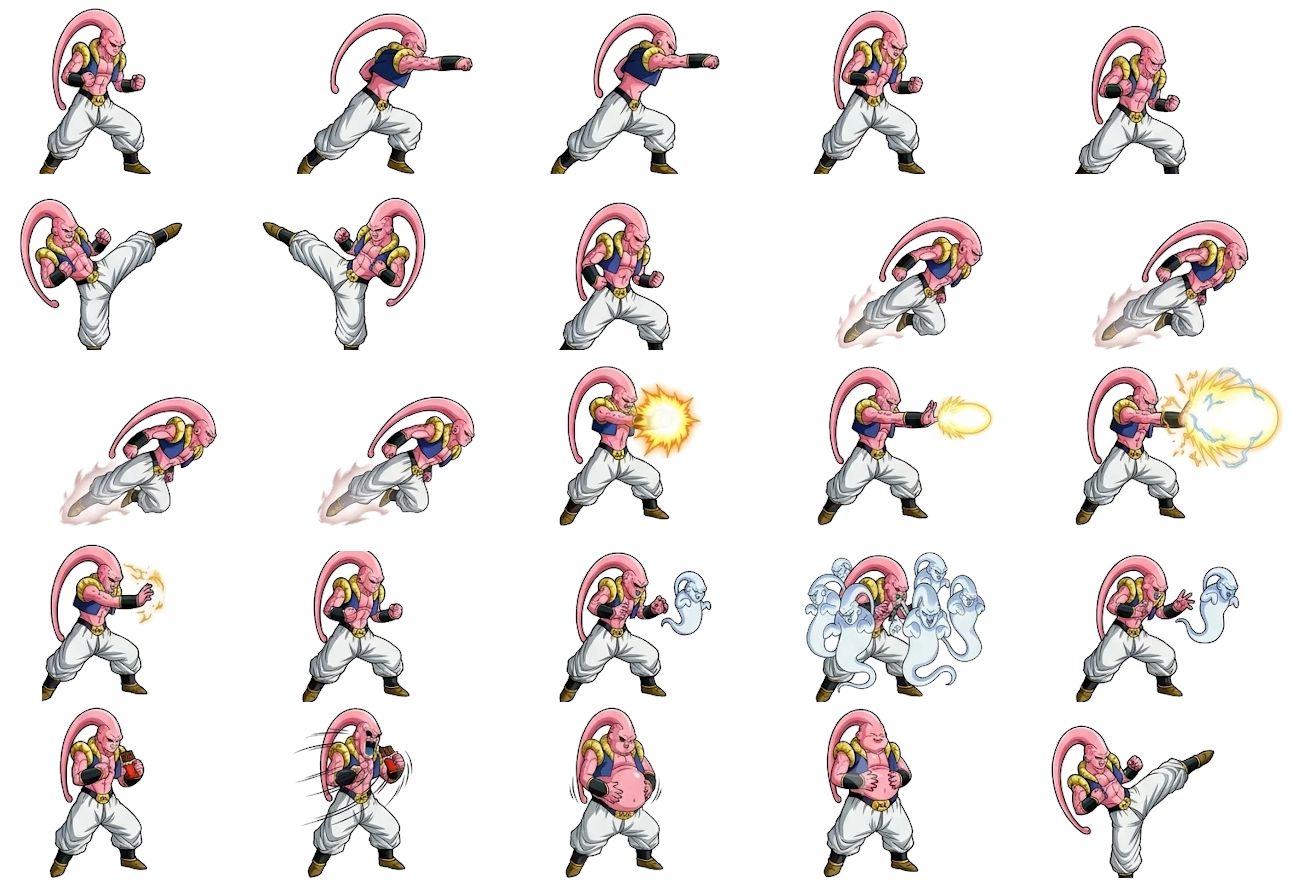
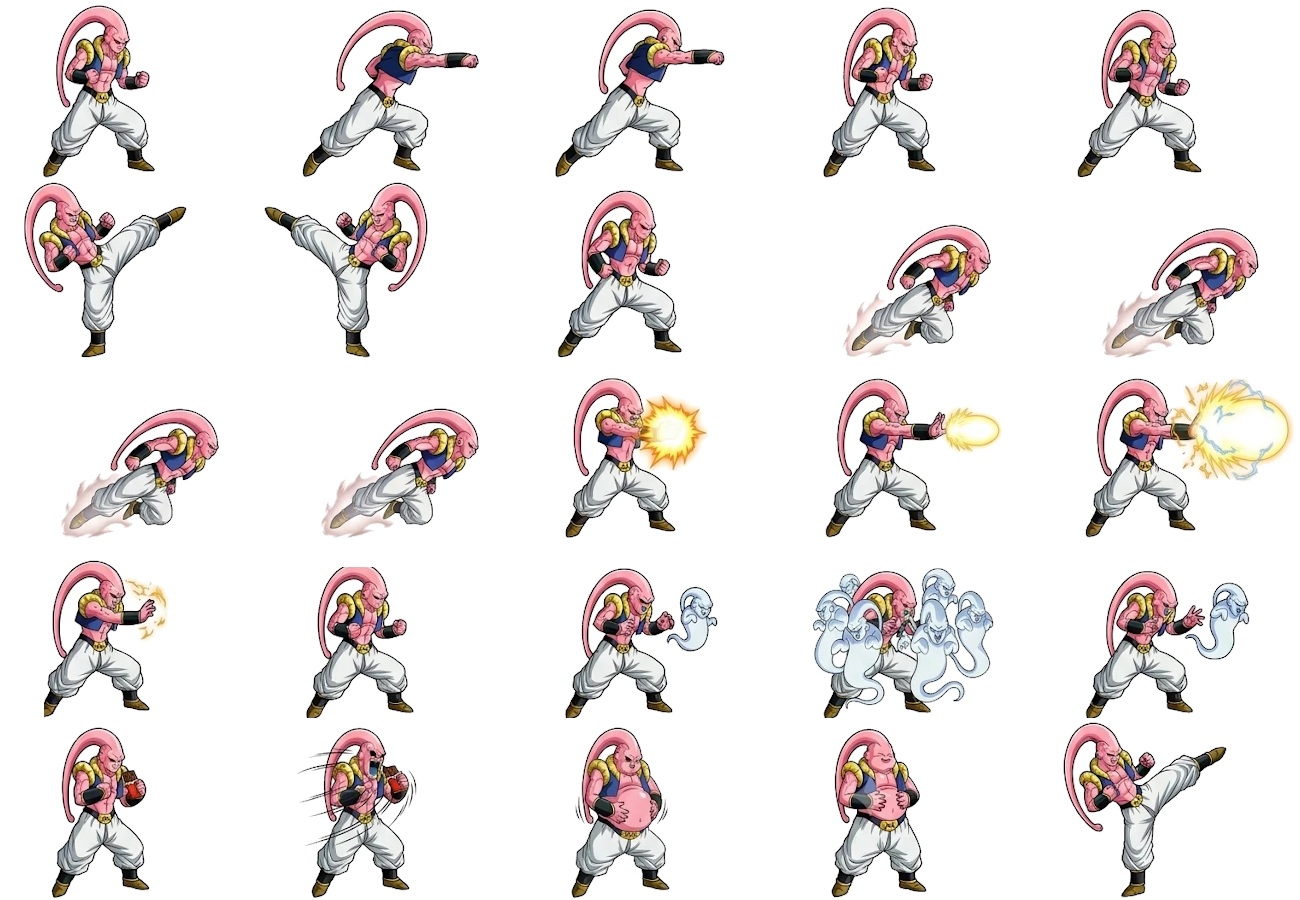
Super Bư: sửa mất giày ở khung đứng / chạy (đường cắt hàng của sheet gốc cắt ngang giày)
Claude-Session: https://claude.ai/code/session_011yiZVu3icpoNRUG7EWjv6m

diff --git a/web/src/game/nhan-vat-du-lieu.ts b/web/src/game/nhan-vat-du-lieu.ts
@@ -191,9 +191,9 @@ export const NHAN_VAT = [MABU, ZINBU, VEGETA];
 // Dựng bằng tools/tao-atlas-super-buu.py từ sheet người dùng gửi (ảnh vẽ tay, quay mặt phải); PNG gấp 2 logic, vẽ có làm mịn.
 // Khung: 0,3,4,7 đứng · 1–2 đấm · 5,24 đá · 8–11 lướt · 12–15 bắn chưởng · 16–19 gọi bóng ma · 20–23 ăn kẹo.
 export const SUPER_BU: NhanVatSprite = {
-  ten: 'Super Bư', atlas: 'assets/game/super_buu_atlas.png', atlasW: 645, atlasH: 440, w: 129, h: 88, cot: 5,
-  // neoY = đáy chân (87) + NANG 10: nâng hình lên cho chân không lẫn xuống nền; trên map to TO_BAN_DO = 1,95 (= 1,3 × 1,5)
-  neoX: 46.5, neoY: 97, muot: true, to: 1.3, toBanDo: 1.95,
+  ten: 'Super Bư', atlas: 'assets/game/super_buu_atlas.png', atlasW: 650, atlasH: 450, w: 130, h: 90, cot: 5,
+  // neoY = đáy chân (89) + NANG 10: nâng hình lên cho chân không lẫn xuống nền; trên map to TO_BAN_DO = 1,95 (= 1,3 × 1,5)
+  neoX: 47.5, neoY: 99, muot: true, to: 1.3, toBanDo: 1.95,
   anim: {
     idle: { f: [0, 3, 4, 7], ms: 170, lap: true },
     taunt_flex: { f: [20, 21, 22, 23, 22, 23], ms: 150, lap: false },

diff --git a/tools/tao-atlas-super-buu.py b/tools/tao-atlas-super-buu.py
@@ -44,12 +44,12 @@ def tach_nen(a, nen, r, ho=None):
     return np.dstack([a.astype(np.uint8), alpha])
 
 
-def cat(mask, n, size):
-    """Đường cắt giữa các ô: chỗ ít điểm ảnh nhất gần đường chia đều."""
+def cat(mask, n, size, lan=50):
+    """Đường cắt giữa các ô: chỗ ít điểm ảnh nhất gần đường chia đều (±lan; ±25 thì hàng 2 bị cắt ngang giày khung 4, 7)."""
     res = [0]
     for k in range(1, n):
         c = size * k // n
-        res.append(c - 25 + int(np.argmin(mask[c - 25:c + 25])))
+        res.append(c - lan + int(np.argmin(mask[c - lan:c + lan])))
     return res + [size]
 
 
@@ -62,7 +62,7 @@ H, W = m.shape
 ys = cat(m.sum(1), HANG, H)
 khung = []
 for r in range(HANG):
-    xs = cat(m[ys[r]:ys[r + 1]].sum(0), COT_SHEET, W)
+    xs = cat(m[ys[r]:ys[r + 1]].sum(0), COT_SHEET, W, 25)
     for c in range(COT_SHEET):
         o = co_ho[ys[r]:ys[r + 1], xs[c]:xs[c + 1]].copy()
         # Khe kín trắng (giữa râu và lưng, tay và thân) là nền; hàng bắn chưởng thì chỉ nửa trái (lõi quả cầu ở bên phải)

diff --git a/CLAUDE.md b/CLAUDE.md
@@ -411,4 +411,4 @@
 - **Sức mạnh gấp `HOP_THE_GAP` = 5 lần Mabu + Zinbu cộng lại**: máu = 5 × tổng máu hai người lúc hợp thể (`hpMax`, thanh / bình máu tính theo mốc này), mana = tổng mana; mỗi đòn (`satNv()`) = 5 × (đòn cùng nhóm của Mabu + của Zinbu): Đấm 500 · Đá 850 · chưởng 1600 (quả cầu vàng `Dan.sb`) · **Bóng ma** (nhóm 3, `NhomDon.ma`) 5 × (Biến mây 250 + Biến socola 150) = 2000: bắn con ma Bư (`Dan.ma`, `super_buu_ma.png`) bay xuyên rồi nổ bán kính `BAN_KINH_MA` = 300, tốn `MANA_DAC_BIET`, hồi `MA_HOI` = 3s (đồng hồ `hoiSoc`). Né / giảm sát thương nhận như Mabu, Zinbu; `suc` / `satDau` của người mang thân vẫn nhân / cộng.
 - **Tồn tại `HOP_THE_T` = 40s**, đếm ngược to trên đầu ("SUPER BƯ ⏱ n", 10 giây cuối đỏ nhấp nháy, `veDemHopThe()`), hết giờ thì **tách ra** (`tachHopThe()`): hai người đứng hai bên, máu / mana mỗi người = giá trị lúc hợp thể × tỉ lệ còn lại của Super Bư (`chiaHopThe()`). Super Bư bị hạ thì không gục mà tách ra sớm, mỗi người còn `HOP_THE_CON_MAU` = 10% máu lúc hợp thể. Sau khi tách phải chờ `HOP_THE_HOI` = 15s (`hopTheHoi`, chữ "🔄 Hợp thể sau ns" trên đầu; bấm sớm thì chữ "⏳ CHƯA HỢP THỂ ĐƯỢC") rồi mới hợp thể lại.
 - Đang hợp thể không lên máy bay / phi thuyền, không chui quả cầu trốn; **đi qua cổng dịch chuyển được** (Super Bư bước vào cổng đảo 4 thì sang thần điện của Frieza như thường). Không lưu ván: lưu giữa lúc hợp thể thì ghi như đã tách ra.
-- Sprite `web/public/assets/game/super_buu_atlas.png` (`SUPER_BU` trong `nhan-vat-du-lieu.ts`, 25 khung 5 cột, PNG gấp 2 logic, căn theo chân, quay mặt phải; ảnh vẽ tay nên vẽ có làm mịn `NhanVatSprite.muot`; chân dung thu `to` = 1,3; trên map to `toBanDo` = 1,95 và hình nâng lên 10 (neoY 97 thay vì đáy chân 87) cho chân không lẫn xuống nền; thanh máu `DAU_SB`) và con ma `super_buu_ma.png`, dựng bằng `tools/tao-atlas-super-buu.py` từ ảnh người dùng gửi (`tools/super-buu-goc.webp`, `tools/super-buu-ma-goc.jpg`; cần Pillow + numpy + scipy).
+- Sprite `web/public/assets/game/super_buu_atlas.png` (`SUPER_BU` trong `nhan-vat-du-lieu.ts`, 25 khung 5 cột, PNG gấp 2 logic, căn theo chân, quay mặt phải; ảnh vẽ tay nên vẽ có làm mịn `NhanVatSprite.muot`; chân dung thu `to` = 1,3; trên map to `toBanDo` = 1,95 và hình nâng lên 10 (neoY 99 thay vì đáy chân 89) cho chân không lẫn xuống nền; thanh máu `DAU_SB`) và con ma `super_buu_ma.png`, dựng bằng `tools/tao-atlas-super-buu.py` từ ảnh người dùng gửi (`tools/super-buu-goc.webp`, `tools/super-buu-ma-goc.jpg`; cần Pillow + numpy + scipy).
